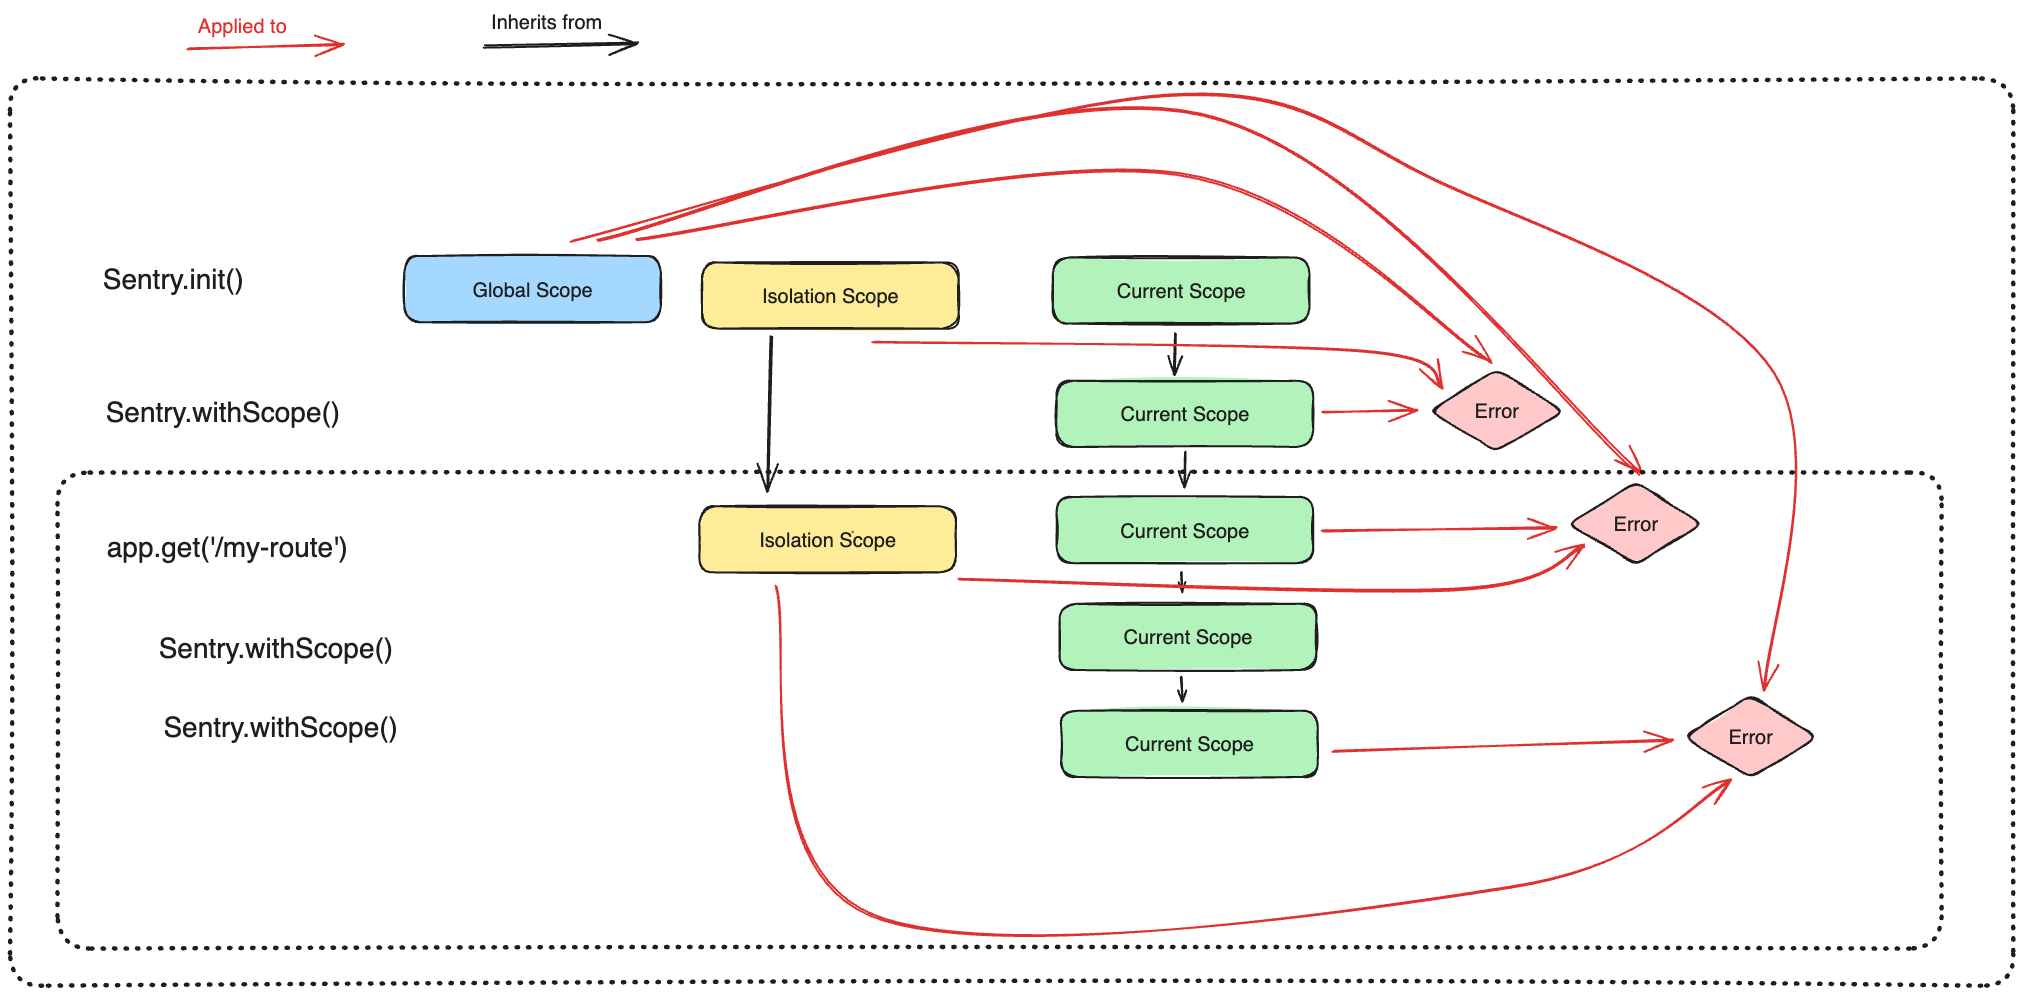
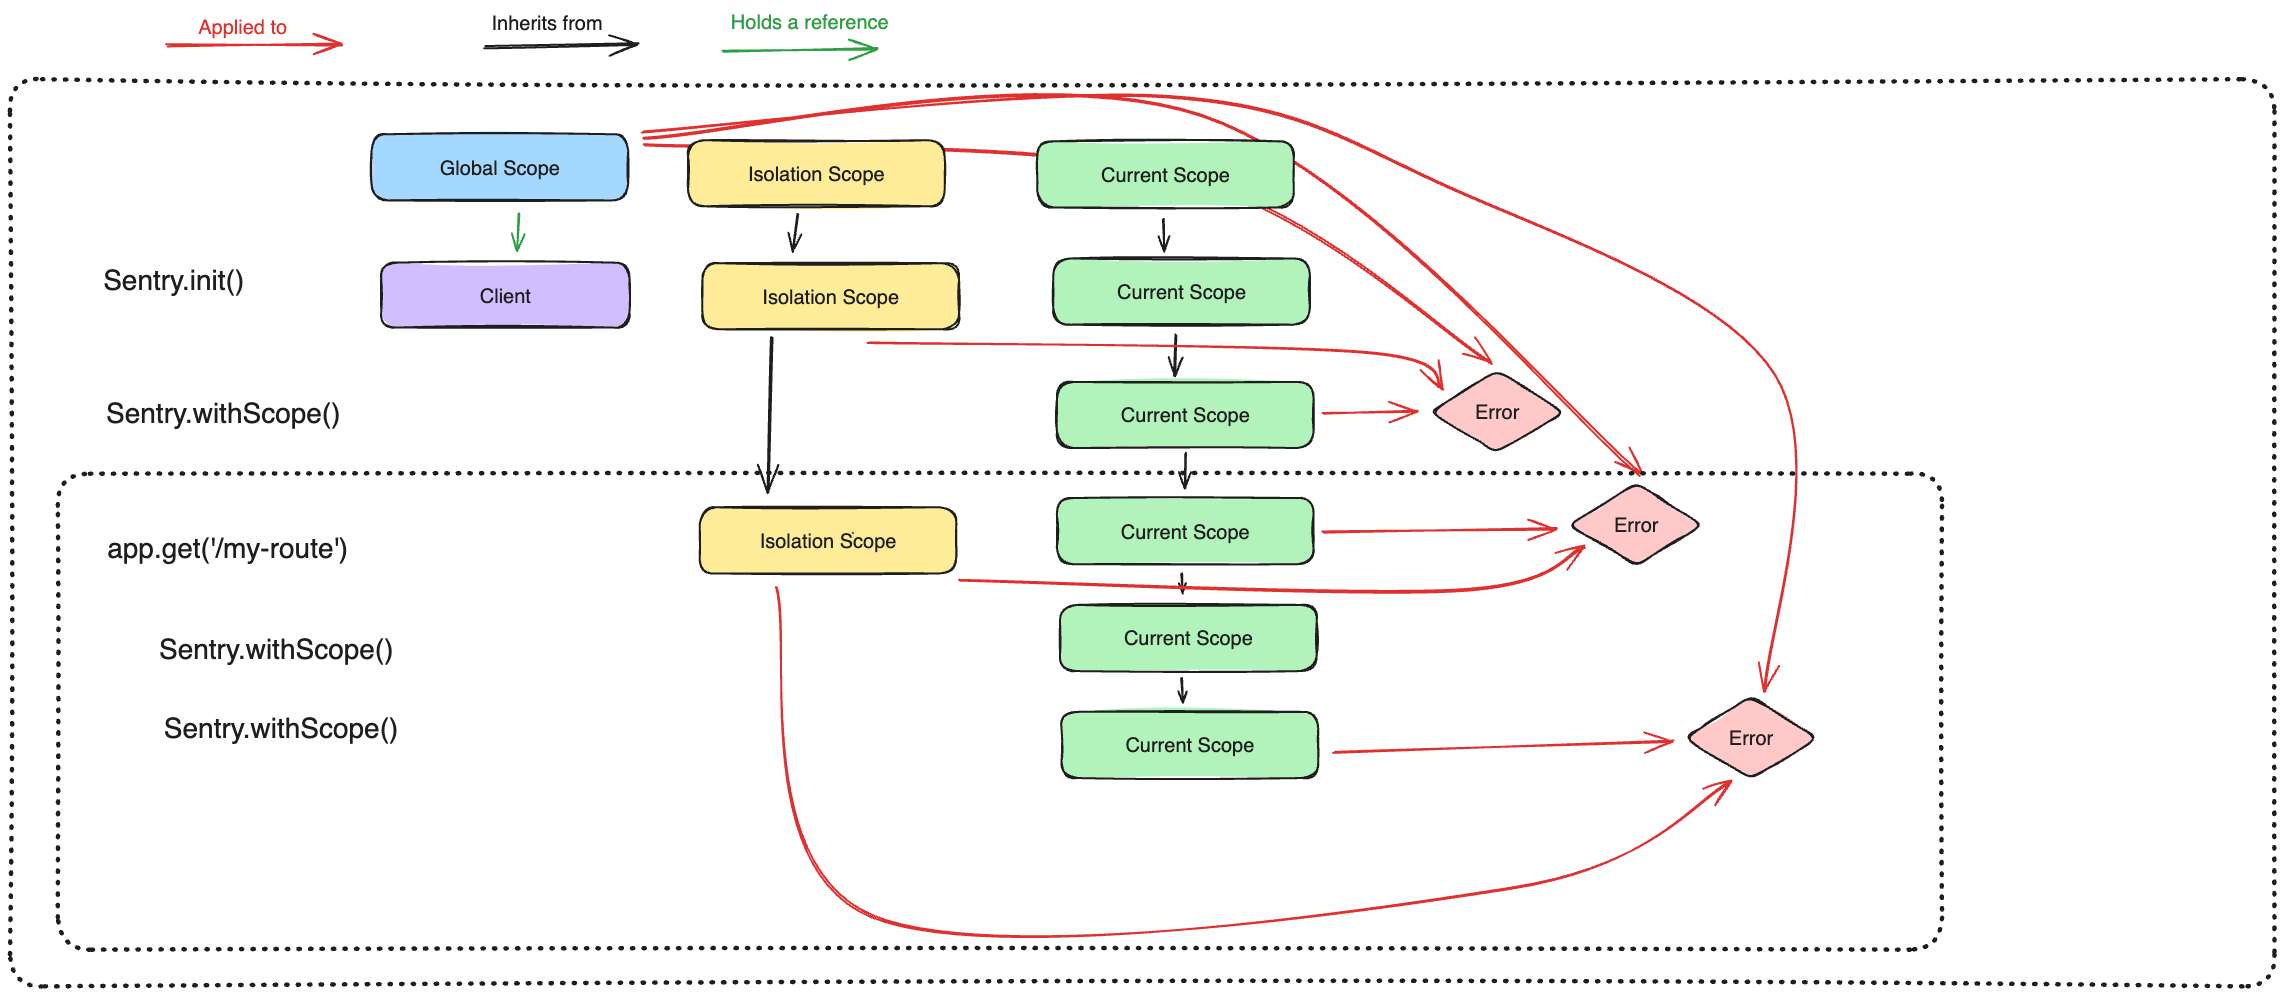
Update rfc

diff --git a/text/0122-sdk-hub-scope-merge.md b/text/0122-sdk-hub-scope-merge.md
@@ -22,6 +22,16 @@ Hubs and Scopes have been part of the unified SDK API for a long time.
 While they have generally served us well, the shortcomings of the current systems have become apparent over time.
 Apart from generally being unclear to users - what is applied when, why, how? - there are also problems with the way we currently instruct users to add event data.
 
+A major reason for this change is also to better align with OpenTelemetry. In OpenTelemetry (OTEL), the equivalent to our scope is the "Context". However, the Context is immutable in OTEL, and works via copy-on-write - so each time you want to change _anything_ on the context, you fork it. This means that you have much more forking than you have in Sentry currently, and also since you always fork a context when you change the active span (as the span is set on the context, and updating it means forking a context), you can quickly get into deeply nested context situations due to auto instrumentation. 
+
+This RFC aims to align this so we can handle the OTEL way of context forking (=doing this very frequent and liberally).
+
+Also, the RFC acknoledges that not all of the concepts laid out below are equally important for every environment - e.g. for Browser JS or mobile, we may not have multiple execution contexts, so some of the concept may not be so relevant. However, we still want to align the concepts across all SDKs for the following reasons:
+
+1. To ensure the experience is somewhat consistent across SDKs, and concepts can be ported.
+2. To handle isomorphic cases, e.g. in JS you have Server and Client code, and it should be as portable as possible.
+3. To prepare for the future - even if e.g. multi-execution-context is not important in an SDK right now, it may become so in the future.
+
 # Proposed Solution
 
 Hubs will be removed as a concept for SDK users.
@@ -31,7 +41,7 @@ Scopes will be _similar_ to how they work today, but not entirely the same.
 Scopes can have data (e.g. tags, user, ...) added to them the same way you can do today.
 This RFC _does not_ aim to change any of the data that is kept on the scope and is applied to events.
 
-The following APIs will be removed/deprecated:
+The following APIs will be deprecated:
 
 - `getCurrentHub()`
 - `configureScope()` (instead just get the scope and set on it directly)
@@ -76,22 +86,26 @@ APIs that are currently on the hub should instead be called directly on the scop
 
 The current scope may be kept similar to how we currently keep the current hub, but this is SDK specific and not part of this RFC.
 
+You can find some examples for how the APIs can/should be used [here](https://gist.github.com/mitsuhiko/1bc78d04ea7d08e5b50d27e42676db80).
+
 ## Clients
 
-Instead of a client being optional, there will now _always_ be a client. It may be a Noop Client that does nothing, if `init()` has not been called yet.
+Instad of picking the client from the current hub, going forward a client should always be fetched via `Sentry.getClient()`. 
+This should _always_ return a client. If `Sentry.init()` was not called yet, it should return a Noop Client that does nothing.
 
-A scope has a reference to a client. By default it will reference a noop client. You can bind a client to a scope via `scope.setClient()`.
-The client is inherited by forked scopes.
+A scope _may_ have a reference to a client. When fetching the active client via `getClient()`, the SDK will look up the chain of active scopes and pick the first client it finds:
 
-```js
-const client1 = new Client();
-const scope = new Scope();
+1. `getCurrentScope().client`
+2. `getIsolationScope().client`
+3. `getGlobalScope().client`
+4. Else, return Noop client
 
-scope.getClient(); // <-- returns a noop client by default
+You can bind a client to a scope viaa `scope.setClient(client)`. The client is inherited by forked scopes.
 
-scope.setClient(client1);
-scope.getClient(); // <-- returns client1
-```
+When calling `Sentry.init()`, by default we will simply update the client on the global scope. This way, you can update the client even for existing scopes, if we have to delay calling `Sentry.init()`. 
+When working with multiple clients, we would set the clients on the isolation scopes to make sure they are correctly picked up.
+
+In environments without execution contexts (like Browser), this generally does not work (not today, not with this proposal) reliably. There, users can only manually create clients & scopes without any global integrations and call `scope.captureException()` manually & directly.
 
 The current scope may be kept similar to how we currently keep the current hub, but this is SDK specific and not part of this RFC.
 
@@ -116,7 +130,7 @@ scope2.setClient(client2);
 scope1.captureException(); // <-- isolated from scope2
 ```
 
-A client continues to be stateless - it holds no reference to any scope. In contrast, each scope _always_ has a client reference (it _may_ reference a Noop client if nothing was initialized yet).
+A client continues to be stateless - it holds no reference to any scope. A scope _may_ have a client attached.
 
 ## Scopes
 
@@ -134,7 +148,7 @@ You can still clone scopes manually the same way as before, e.g. via `Scope.clon
 
 You can update the client of a scope via `scope.setClient(newClient)`. This will not affect any scope that has already been forked off this scope, but any scope forked off _after_ the client was updated will also receive the updated client.
 
-Every scope holds a reference to its client.
+A current scope always inherits from the previous current scope. 
 
 ## Special Scopes
 
@@ -153,17 +167,19 @@ The following chart gives an overview of how these scopes work and to which even
 
 Similar to how we currently store the current hub, we also need to store the current scope. The exact mechanism to do that is up to the concrete SDK/language. In environments with multiple execution contexts (or thread locals), we should attach the current scope to the execution context (or thread local). In other environments, it may be attached to some global (e.g. in Browser JS). This RFC does not propose to change this, so generally the current scope may be stored the same was as the current hub used to be.
 
-In addition to the current scope, the current [Global Scope](#global-scope) and [Isolation Scope](#isolation-scope) (see below for an in-depth explanation on what these are) also need to be stored. These should be stored _next to_ the current scope. If you have executution context, you may store/access them like this:
+In addition to the current scope, the current [Isolation Scope](#isolation-scope) (see below for an in-depth explanation on what these are) also needs to be stored. This should be stored _next to_ the current scope. If you have executution context, you may store/access them like this:
 
 ```js
 const executionContext1 = getExecutionContext();
-const { scope, globalScope, isolationScope } = executionContext1.getScopes();
-executionContext1.setScopes({ scope, globalScope, isolationScope });
+const { scope, isolationScope } = executionContext1.getScopes();
+executionContext1.setScopes({ scope, isolationScope });
 ```
 
 In environments where you don't have execution contexts, you may store them in a global place. The exact mechanism to do this is up to the concrete SDK/language.
 
-For each execution context, there will _always_ be exactly one current, global & isolation scope. When the execution context is forked, these are forked along.
+For each execution context, there will _always_ be exactly one current & isolation scope. When the execution context is forked, these are forked along.
+
+The [Global Scope](#global-scope) is truly global and can be kept in a global place.
 
 ### Global Scope
 
@@ -263,6 +279,8 @@ app.get("/my-route", function () {
 
 Note that in environments where you do not have multiple execution contexts (e.g. Browser JS), there is basically only a single isolation scope that is fundamentally the same as the global scope. In these environments, global & isolation scope can be used completely interchangeably. However, for consistency we still have these concepts everywhere - but users do not need to care about them, and we can reflect this in the SDK specific documentation.
 
+The isolation scope always inherits from the previously active isolation scope.
+
 ### How does the isolation scope differ from the current scope?
 
 If you are unsure why this exists, here an example:
@@ -359,6 +377,7 @@ Note that there is _always_ exactly one global & one isolation scope active.
 Inside of the SDK, this is how current code patterns can/should be migrated:
 
 - `getCurrentHub().getScope()` --> `getCurrentScope()` - wherever we used to use the current hub, we can instead use the current scope instead.
+- `getCurrentHub().getClient()` --> `getClient()`
 - `hub.configureScope(scopeCallback)` --> `const scope = getCurrentScope()` - just get & set on the scope directly
 - `hub.withScope(scopeCallback)` --> `withScope(scopeCallback)`
 - `hub.run()` --> `withIsolationScope()` - in places where you've currently forked the hub, you can instead fork a scope with an isolation scope
@@ -391,6 +410,8 @@ Sentry.captureMessage();
 ```
 
 SDKs _may_ also add an option to the client to opt-in to put breadcrumbs on the global scope instead (e.g. for mobile or scenarios where you always want breadcrumbs to be global).
+
+Note that since most data should generally be put on the isolation scope, we should not generally have to copy data that much on frequent scope forking. Since the isolation scope is rarely forked, most data does not need to be copied that frequently.
 
 ## Should users care about global / isolation scopes?
 
@@ -450,6 +471,5 @@ This RFC does not propose any concrete way to store the active scope. This is up
 
 - How should we handle this in docs?
 - Naming: Can we come up with something better than Isolation Scope?
-- Global Scope: Should it be per-client (current RFC) or truly global?
-  - If per-client, should this be called "Client Scope" instead to be clearer?
-- Naming: `getScope()` vs. `getCurrentScope()`
+- Should we have a different API for global/isolation scope?
+  - We don't expect the need to e.g. call `isolationScope.captureException()`, and maybe we should actually make this impossible
